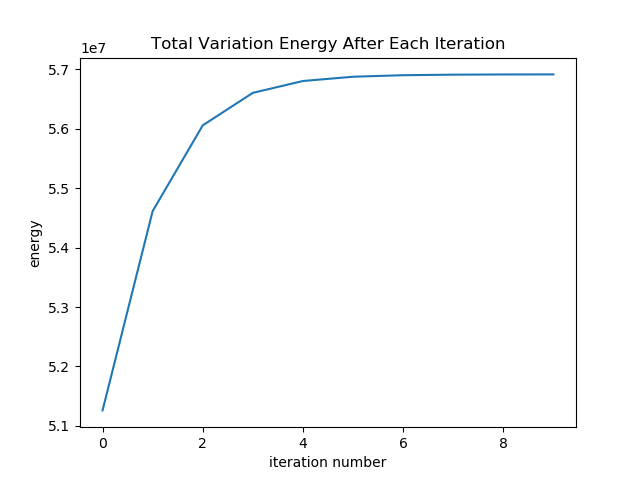
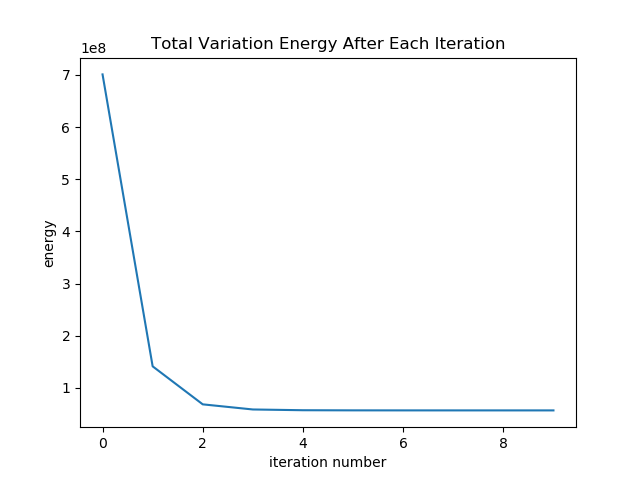
fixed energy, increasing problem.

diff --git a/TVminimizer.py b/TVminimizer.py
@@ -10,7 +10,7 @@ def minimize_total_variation(img_with_border: np.ndarray, border_width: int) -> 
     tau = 0.9
     theta = 1.0
     energy_hist = []
-    img = np.copy(img_with_border)
+    img = np.zeros(img_with_border.shape)
     rows, cols = img_with_border.shape
     p = np.zeros((rows, cols, 2))
     for i in range(steps):
